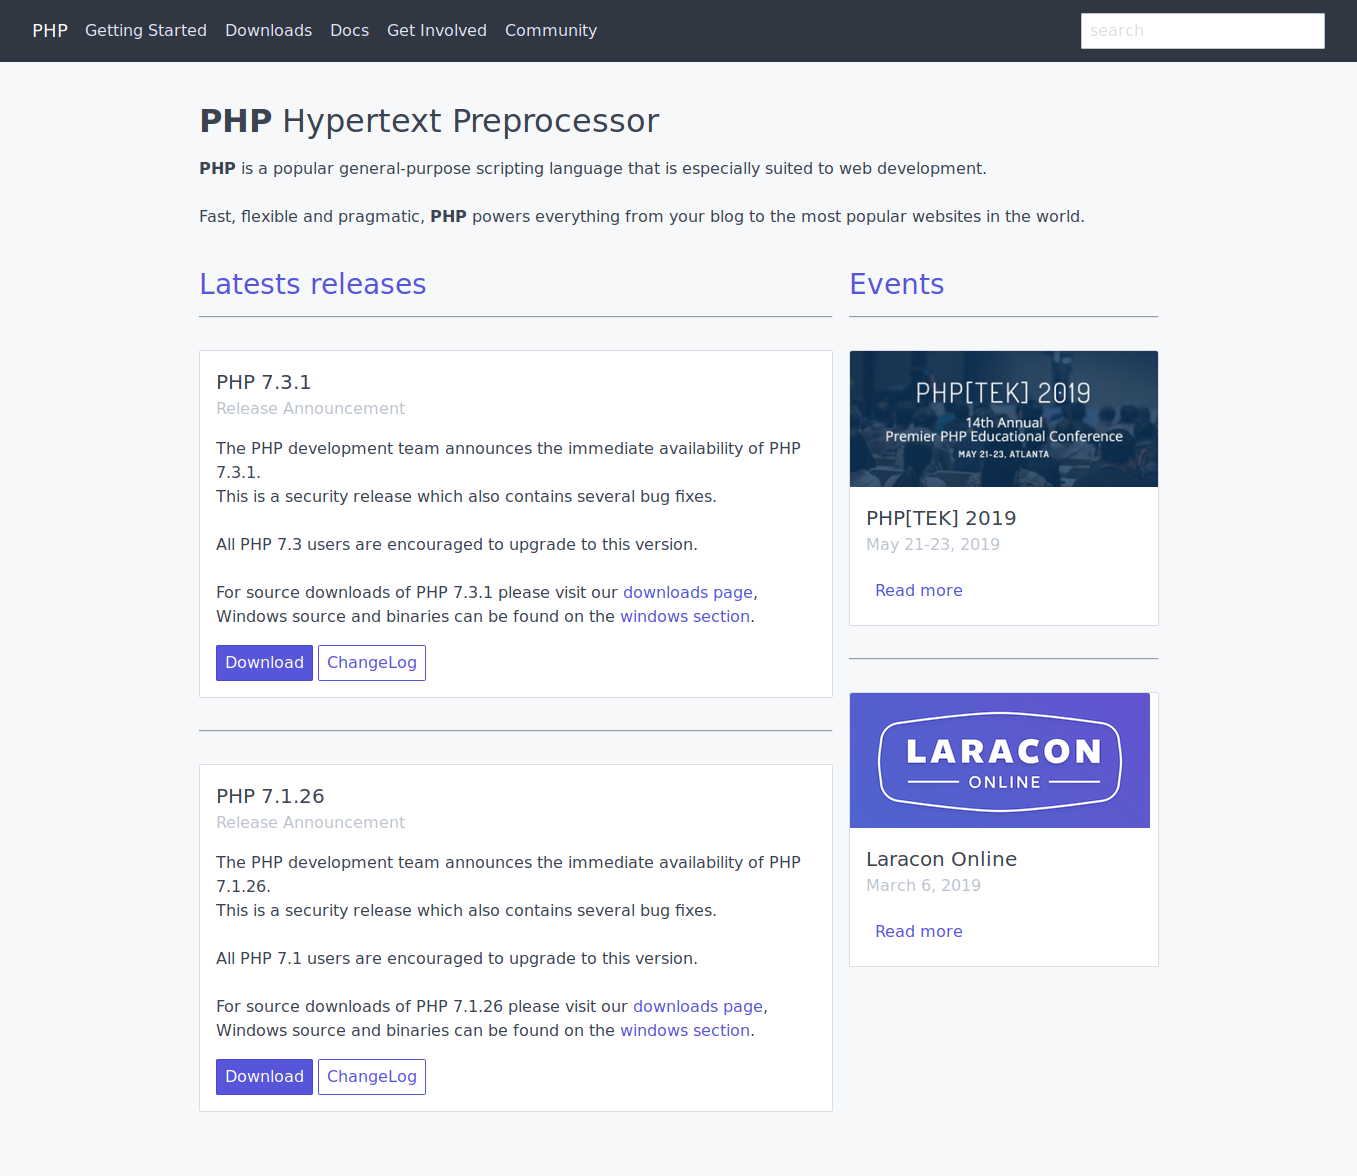
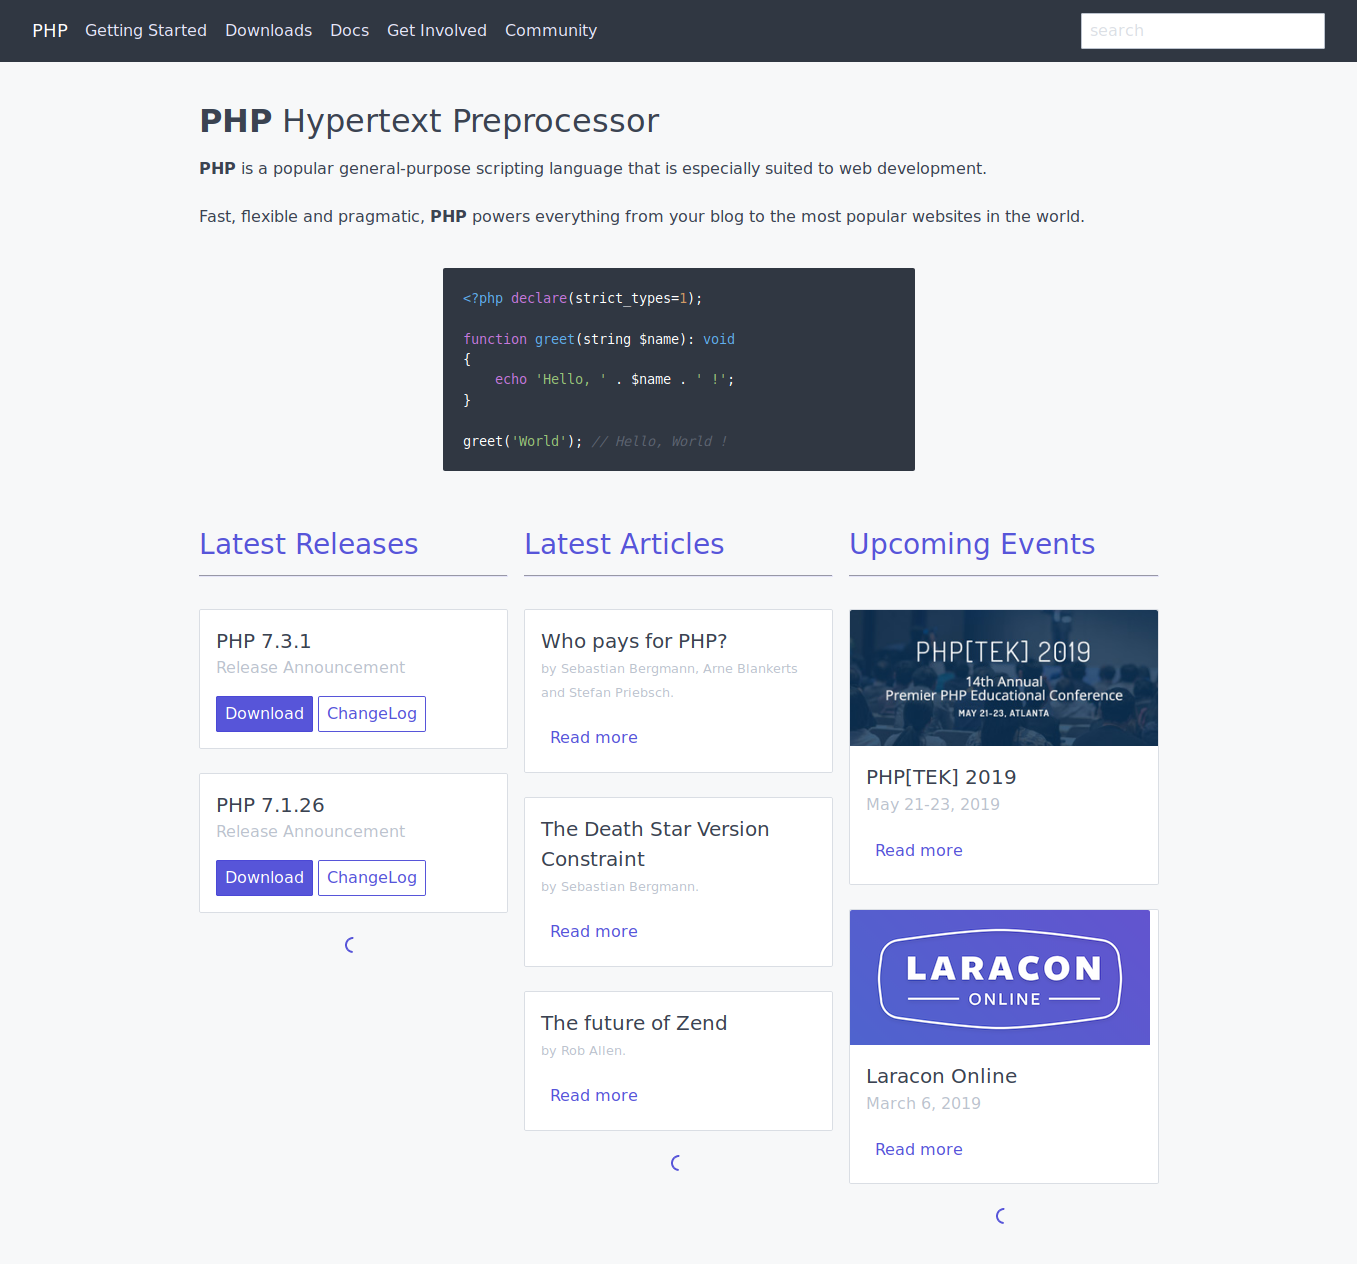
update landing page

diff --git a/templates/landing.php b/templates/landing.php
@@ -10,20 +10,51 @@
         Fast, flexible and pragmatic, <span class='text-bold'>PHP</span> powers everything from your blog to the most
         popular websites in the world.
     </p>
+    <div class="columns">
+        <div class="column col-6 p-centered">
+            <pre class="code php"><code class="bg-dark text-light">&lt?php declare(strict_types=1);
+
+function greet(string $name): void
+{
+    echo 'Hello, ' . $name . ' !';
+}
+
+greet('World'); // Hello, World !</code></pre>
+        </div>
+    </div>
+<br />
 </div>
-<div class="column col-8">
-    <h3 class="text-primary">Latests releases</h3>
+
+<div class="column col-4">
+    <h3 class="text-primary">Latest Releases</h3>
+    <hr class="text-secondary" />
     <?php
         foreach (($releases ?? []) as $release) {
             echo $this->fetch('component/release-card', $release);
         }
     ?>
+    <br />
+    <div class="loading"></div>
 </div>
 <div class="column col-4">
-    <h3 class="text-primary">Events</h3>
+    <h3 class="text-primary">Latest Articles</h3>
+    <hr class="text-secondary" />
+    <?php
+        foreach (($articles ?? []) as $article) {
+            echo $this->fetch('component/article-card', $article);
+        }
+    ?>
+    <br />
+    <div class="loading"></div>
+</div>
+<div class="column col-4">
+    <h3 class="text-primary">Upcoming Events</h3>
+    <hr class="text-secondary" />
     <?php
         foreach (($events ?? []) as $event) {
             echo $this->fetch('component/event-card', $event);
         }
     ?>
+    <br />
+    <div class="loading"></div>
 </div>

diff --git a/public/index.php b/public/index.php
@@ -21,8 +21,12 @@ $router = $container->get(League\Route\Router::class);
 $router->get('/', function (Request $request) use($container): Response {
     $engine = $container->get(League\Plates\Engine::class);
     $releases = json_decode(file_get_contents(__DIR__ . '/../resources/releases.json'), true);
+    $events = json_decode(file_get_contents(__DIR__ . '/../resources/events.json'), true);
+    $articles = json_decode(file_get_contents(__DIR__ . '/../resources/articles.json'), true);
     return new Zend\Diactoros\Response\HtmlResponse($engine->render('landing', [
         'releases' => $releases,
+        'events' => $events,
+        'articles' => $articles
     ]));
 });
 

diff --git a/templates/component/event-card.php b/templates/component/event-card.php
@@ -1,15 +1,13 @@
-<hr class="text-secondary" />
 <br />
 <div class="card">
   <div class="card-image">
     <img src="<?= $img ?>" class="img-responsive">
   </div>
   <div class="card-header">
-    <div class="card-title h5"><?= $name ?></div>
-    <div class="card-subtitle text-gray"><?= $date ?></div>
+    <div class="card-title h5"><?= $this->e($name) ?></div>
+    <div class="card-subtitle text-gray"><?= $this->e($date) ?></div>
   </div>
   <div class="card-footer">
     <a href="<?= $url ?>" class="btn btn-link btn-secondary">Read more</a>
   </div>
 </div>
-<br />

diff --git a/templates/component/release-card.php b/templates/component/release-card.php
@@ -1,16 +1,11 @@
-<hr class="text-secondary" />
 <br />
 <div class="card">
   <div class="card-header">
-    <div class="card-title h5">PHP <?= $version ?></div>
+    <div class="card-title h5">PHP <?= $this->e($version) ?></div>
     <div class="card-subtitle text-gray">Release Announcement</div>
   </div>
-  <div class="card-body">
-    <?= $body ?>
- </div>
   <div class="card-footer">
     <button class="btn btn-primary">Download</button>
     <button class="btn btn-secondary">ChangeLog</button>
   </div>
 </div>
-<br />

diff --git a/templates/component/article-card.php b/templates/component/article-card.php
@@ -1,0 +1,10 @@
+<br />
+<div class="card">
+  <div class="card-header">
+    <div class="card-title h5"><?= $this->e($title) ?></div>
+    <small class="text-gray">by <?= $this->e($author) ?>.</small>
+  </div>
+  <div class="card-footer">
+    <a href="<?= $url ?>" target="__blank" class="btn btn-link  text-primary">Read more</a>
+  </div>
+</div>

diff --git a/templates/component/contributor-card.php b/templates/component/contributor-card.php
@@ -12,4 +12,3 @@
     <small><?= $contributor['contributions'] ?> commits</small>
   </div>
 </div>
-<br />
